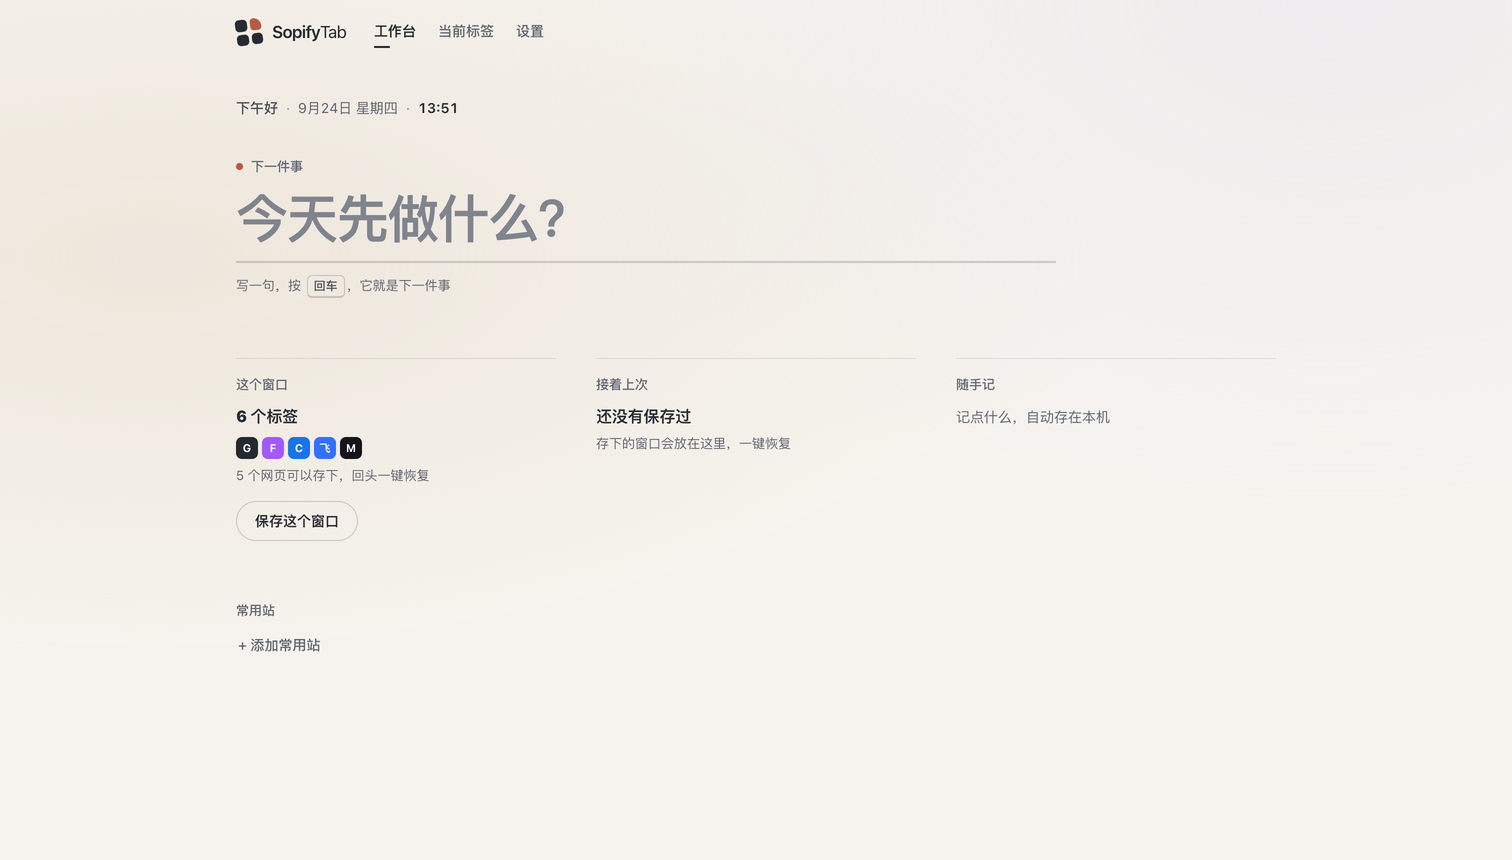
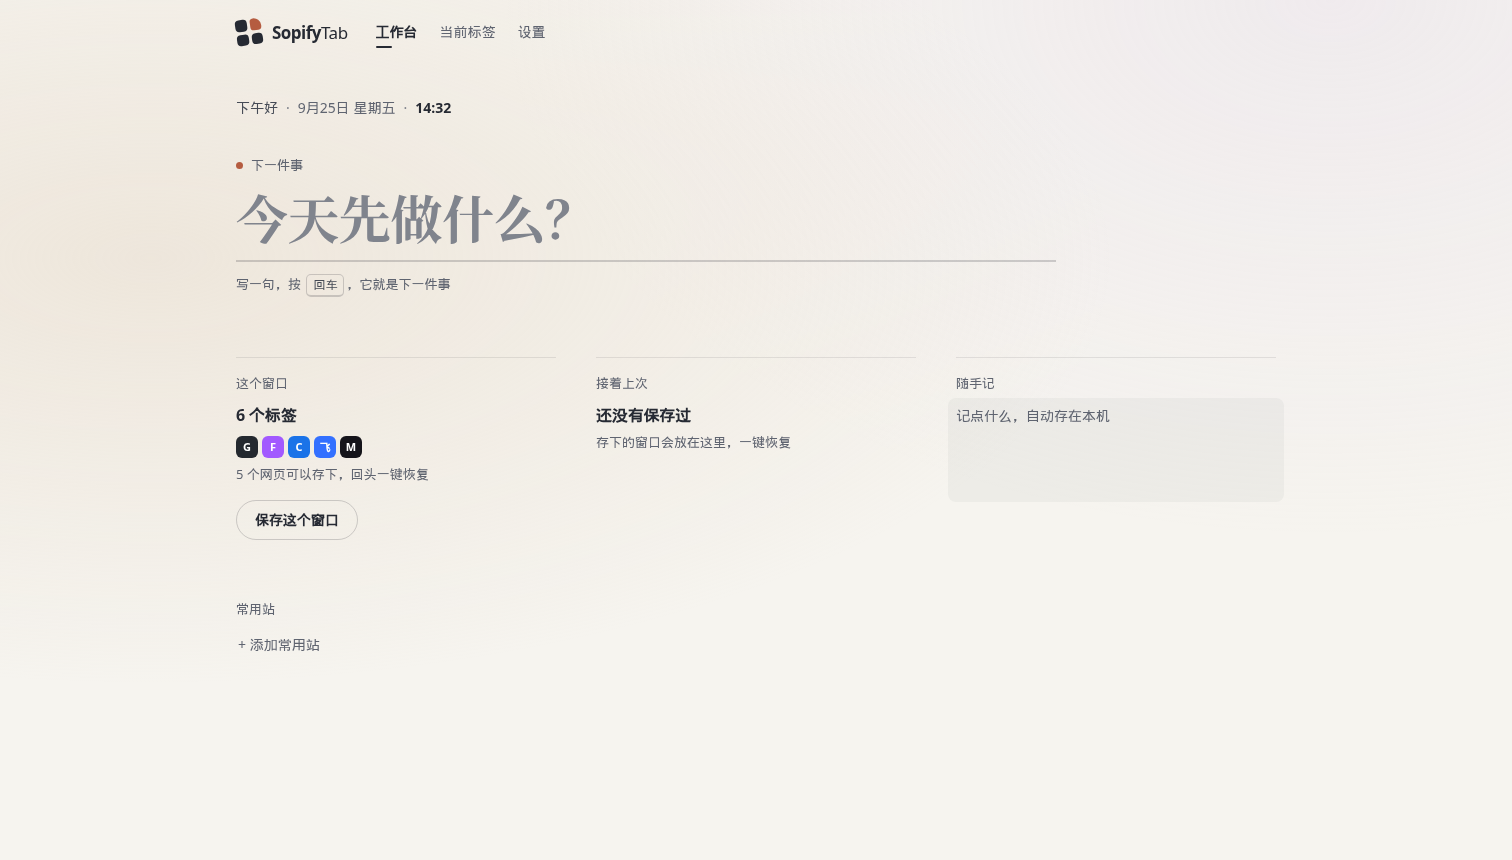
feat(firstscreen): Songti stack + note placeholder wash (#43)
PR-A: Songti stack (700 / -0.01em / sans fallback) and empty-note field wash; sync firstscreen-v3 prototype. Authorized tip 28a389c.

diff --git a/extension/newtab.css b/extension/newtab.css
@@ -184,6 +184,8 @@ html[data-sky="day"] {
   --studio-solid: #fffefa;
   --studio-wash-a: rgba(230, 217, 200, 0.5);
   --studio-wash-b: rgba(227, 217, 235, 0.32);
+  --studio-field: rgba(38, 42, 51, 0.04);
+  --studio-field-hi: rgba(38, 42, 51, 0.07);
 }
 html[data-sky="night"] {
   --studio-paper: #171b27;
@@ -200,6 +202,8 @@ html[data-sky="night"] {
   --studio-solid: #1f2432;
   --studio-wash-a: rgba(91, 80, 115, 0.18);
   --studio-wash-b: rgba(48, 80, 120, 0.14);
+  --studio-field: rgba(255, 255, 255, 0.04);
+  --studio-field-hi: rgba(255, 255, 255, 0.07);
 }
 
 body:has(.studio-desk.active) {
@@ -1228,11 +1232,12 @@ body.studio-home:not(.sidepanel) .main {
   font-size: 13px; font-weight: 500; color: var(--studio-muted);
 }
 .kicker .dot { width: 7px; height: 7px; border-radius: 50%; background: var(--studio-accent); }
-.next-title, .next-input {
+.studio-desk .next-title, .studio-desk .next-input {
+  font-family: "Songti SC", "Songti TC", "STSong", "Source Han Serif SC", "Noto Serif CJK SC", "Noto Serif SC", "Hiragino Mincho ProN", "Yu Mincho", "YuMincho", "MS PMincho", -apple-system, BlinkMacSystemFont, "PingFang SC", "Hiragino Sans GB", "Microsoft YaHei", "Segoe UI", system-ui, sans-serif;
   font-size: clamp(34px, 3.8vw, 52px);
   line-height: 1.2;
-  font-weight: 600;
-  letter-spacing: -0.03em;
+  font-weight: 700;
+  letter-spacing: -0.01em;
 }
 .next-title {
   margin: 14px 0 0;
@@ -1346,7 +1351,10 @@ html[data-sky="night"] .studio-desk .fav:not(.more) { box-shadow: inset 0 0 0 1p
 }
 .studio-desk .shelf textarea.note::placeholder { color: var(--studio-muted); }
 .studio-desk .shelf textarea.note:hover { background: var(--studio-hover); }
+.studio-desk .shelf textarea.note:placeholder-shown { background: var(--studio-field); }
+.studio-desk .shelf textarea.note:placeholder-shown:hover { background: var(--studio-field-hi); }
 .studio-desk .shelf textarea.note:focus { background: var(--studio-solid); box-shadow: inset 0 0 0 1px var(--studio-line-2); }
+.studio-desk .shelf textarea.note:focus:hover { background: var(--studio-solid); box-shadow: inset 0 0 0 1px var(--studio-line-2); }
 .note-status:empty { display: none; }
 .col.flash { animation: fs-flash 1400ms var(--out); }
 @keyframes fs-flash { from { background: var(--studio-flash); } to { background: transparent; } }

diff --git a/host/test-w13-firstscreen.js b/host/test-w13-firstscreen.js
@@ -112,4 +112,23 @@ assert.ok(/html\[data-sky="night"\][^{]*\.stars-layer\s*\{[^}]*opacity:\s*1/.tes
 assert.ok(!/<canvas/i.test(html));
 assert.ok(!/getContext\s*\(\s*['"](?:webgl|experimental-webgl)['"]/i.test(html + js + css));
 
+const SANS_FALLBACK = '-apple-system, BlinkMacSystemFont, "PingFang SC", "Hiragino Sans GB", "Microsoft YaHei", "Segoe UI", system-ui, sans-serif';
+const SONG_STACK = `"Songti SC", "Songti TC", "STSong", "Source Han Serif SC", "Noto Serif CJK SC", "Noto Serif SC", "Hiragino Mincho ProN", "Yu Mincho", "YuMincho", "MS PMincho", ${SANS_FALLBACK}`;
+const titleInput = ruleBlock(css, '.studio-desk .next-title, .studio-desk .next-input');
+assert.ok(titleInput.includes(`font-family: ${SONG_STACK}`), 'next title and input use the Songti stack');
+assert.ok(titleInput.includes('font-weight: 700'), 'next title and input are weight 700');
+assert.ok(titleInput.includes('letter-spacing: -0.01em'), 'default tracking is -0.01em');
+assert.ok(titleInput.includes('.next-title') && titleInput.includes('.next-input'));
+const family = (titleInput.split('font-family:')[1] || '').split(';')[0];
+assert.ok(family.includes(SANS_FALLBACK), 'Songti stack falls back to the system sans');
+assert.ok(!/SimSun|宋体/.test(family), 'Songti stack must not name SimSun or 宋体');
+assert.ok(!/(^|,)\s*serif\s*(,|$)/i.test(family), 'Songti stack must not use bare serif');
+assert.ok(/letter-spacing:\s*-0\.02em/.test(ruleBlock(css, '.next-title[data-size="l"]')), 'long titles keep their own tracking');
+assert.ok(day.includes('--studio-field: rgba(38, 42, 51, 0.04);'));
+assert.ok(day.includes('--studio-field-hi: rgba(38, 42, 51, 0.07);'));
+assert.ok(night.includes('--studio-field: rgba(255, 255, 255, 0.04);'));
+assert.ok(night.includes('--studio-field-hi: rgba(255, 255, 255, 0.07);'));
+assert.ok(css.includes('.studio-desk .shelf textarea.note:placeholder-shown { background: var(--studio-field); }'));
+assert.ok(css.includes('.studio-desk .shelf textarea.note:placeholder-shown:hover { background: var(--studio-field-hi); }'));
+
 console.log('test-w13-firstscreen: ok');

diff --git a/prototype/firstscreen-v3/styles.css b/prototype/firstscreen-v3/styles.css
@@ -25,6 +25,8 @@ html[data-sky="day"] {
   --lift: 0 1px 2px rgba(60, 46, 30, 0.05), 0 14px 30px -18px rgba(60, 46, 30, 0.3);
   --cover-s: 34%;
   --cover-l: 91%;
+  --studio-field: rgba(38, 42, 51, 0.04);
+  --studio-field-hi: rgba(38, 42, 51, 0.07);
 }
 html[data-sky="night"] {
   color-scheme: dark;
@@ -46,6 +48,8 @@ html[data-sky="night"] {
   --lift: 0 1px 2px rgba(0, 0, 0, 0.3), 0 16px 34px -18px rgba(0, 0, 0, 0.7);
   --cover-s: 12%;
   --cover-l: 23%;
+  --studio-field: rgba(255, 255, 255, 0.04);
+  --studio-field-hi: rgba(255, 255, 255, 0.07);
 }
 
 *, *::before, *::after { box-sizing: border-box; }
@@ -172,10 +176,11 @@ svg.i { width: 16px; height: 16px; fill: none; stroke: currentColor; stroke-widt
 .kicker .dot { width: 7px; height: 7px; border-radius: 50%; background: var(--accent); }
 .next-title,
 .next-input {
+  font-family: "Songti SC", "Songti TC", "STSong", "Source Han Serif SC", "Noto Serif CJK SC", "Noto Serif SC", "Hiragino Mincho ProN", "Yu Mincho", "YuMincho", "MS PMincho", -apple-system, BlinkMacSystemFont, "PingFang SC", "Hiragino Sans GB", "Microsoft YaHei", "Segoe UI", system-ui, sans-serif;
   font-size: clamp(34px, 3.8vw, 52px);
   line-height: 1.2;
-  font-weight: 600;
-  letter-spacing: -0.03em;
+  font-weight: 700;
+  letter-spacing: -0.01em;
 }
 .next-title {
   margin-top: 14px;
@@ -289,7 +294,10 @@ html[data-sky="night"] .mini-bar i { box-shadow: 0 0 0 1px rgba(255, 255, 255, 0
 }
 .note::placeholder { color: var(--muted); }
 .note:hover { background: var(--hover); }
+.note:placeholder-shown { background: var(--studio-field); }
+.note:placeholder-shown:hover { background: var(--studio-field-hi); }
 .note:focus { background: var(--solid); box-shadow: inset 0 0 0 1px var(--line-2); }
+.note:focus:hover { background: var(--solid); box-shadow: inset 0 0 0 1px var(--line-2); }
 .note-status:empty { display: none; }
 
 .flash { animation: flash 1400ms var(--out); }
